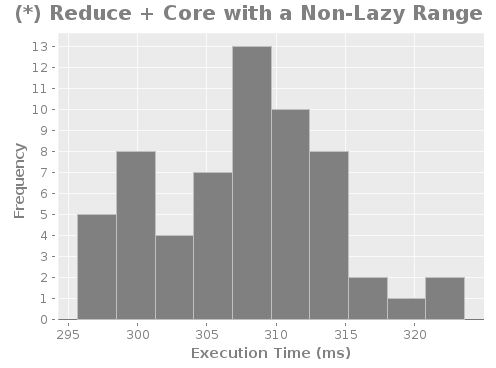
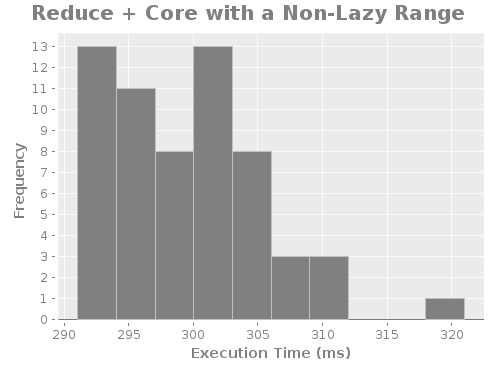
Update results.

diff --git a/RESULTS.md b/RESULTS.md
@@ -2,12 +2,12 @@
 
 ### Table
 
-    |                 :reducer |               :lazy |           :non-lazy |
-    |--------------------------+---------------------+---------------------|
-    | (*) Lazy Fold + Reducers | 0.16873658383333334 | 0.17308061066666666 |
-    |      (*) Fold + Reducers |  0.3080398518333333 |        0.1792540485 |
-    |    (*) Reduce + Reducers | 0.32373229350000005 |  0.2978953523333333 |
-    |        (*) Reduce + Core | 0.31680383883333335 |        0.3060597525 |
+    |             :reducer |               :lazy |           :non-lazy |
+    |----------------------+---------------------+---------------------|
+    | Lazy Fold + Reducers | 0.20206481650000002 | 0.16218111333333335 |
+    |      Fold + Reducers | 0.30272887766666673 | 0.15692892516666668 |
+    |    Reduce + Reducers | 0.30376853983333335 | 0.29225454483333335 |
+    |        Reduce + Core |         0.300391028 | 0.31491612116666673 |
 
 ### Histograms
 
